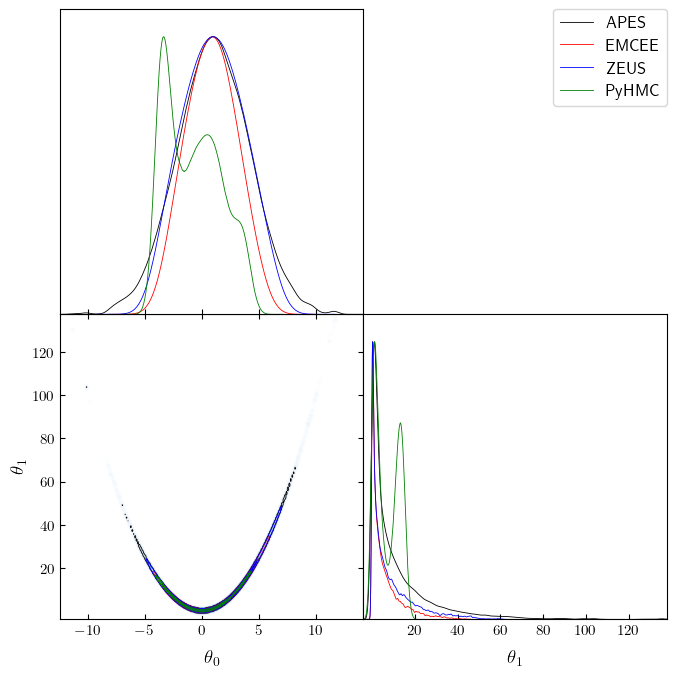
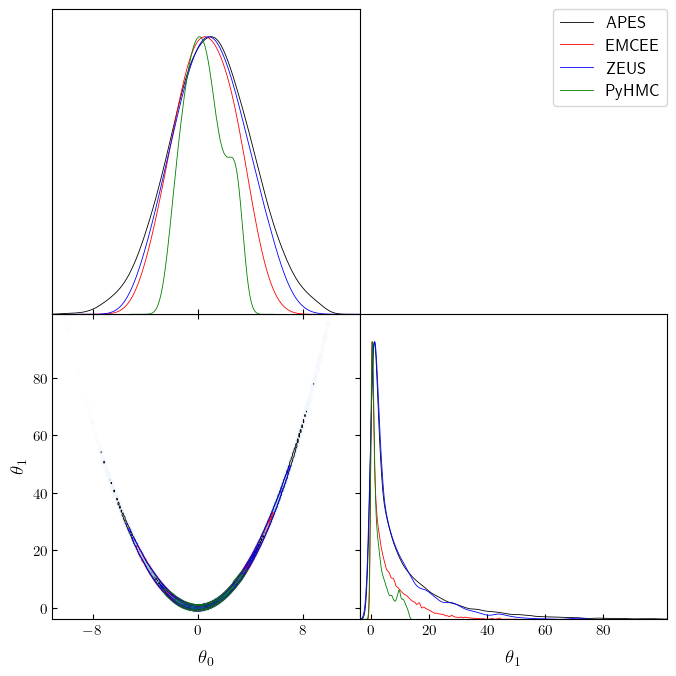
Updates on tutorials.

diff --git a/tutorials/rosenbrock_simple.md b/tutorials/rosenbrock_simple.md
@@ -1,13 +1,12 @@
----
+----
 layout: tutorial
 title: Samplers comparison
 desc: comparing the performance of four different samplers
----
-
+----
 
 # Samplers comparison
 
-**License**
+## License
 
 rosenbrock_simple
 
@@ -48,7 +47,7 @@ import zeus
 from pyhmc import hmc
 ```
 
-### Initialize NumCosmo and sampling parameters
+## Initialize NumCosmo and sampling parameters
 
 In this notebook, we will compare the performance of four different
 samplers: APES, Emcee, Zeus and PyHMC. To start, we will use the new
@@ -72,7 +71,7 @@ burin_steps = 500
 verbose = False
 ```
 
-### Probability definition
+## Probability definition
 
 In the cell below, we will define the unnormalized Rosenbrock
 distribution, which is known to be a difficult distribution to sample
@@ -111,7 +110,7 @@ ndim, nwalkers = 2, nwalkers
 p0 = np.random.randn(nwalkers, ndim)
 ```
 
-### Runnig NumComo’s APES
+## Running NumComo’s APES
 
 In the cell below, we will run NumCosmo’s APES algorithm using the
 configuration defined above.
@@ -165,11 +164,11 @@ mcat_zeus.trim(burin_steps)
 ### Running pyhmc: Hamiltonian Monte Carlo
 
 In the cell below, we will run the pyhmc algorithm with the same initial
-point `p0` generated previously, however since pyhmc is not an ensamble
+point `p0` generated previously, however since pyhmc is not an ensemble
 sampler we use only the first point. We will generate a chain of samples
 using pyhmc and store the resulting chain in a `Catalog` object.
 Moreover, here we need to remove a longer burn-in period of 1000
-samples, since pyhmc is not an ensamble sampler.
+samples, since pyhmc is not an ensemble sampler.
 
 ``` python
 chain_pyhmc, log_prob_pyhmc = hmc(
@@ -218,29 +217,29 @@ mcat_pyhmc.print_status()
 ```
 
     #----------------------------------------------------------------------------------
-    # NcmMSetCatalog: Current mean:   2.0344       1.0053       11.327     
-    # NcmMSetCatalog: Current msd:    0.0083706    0.011912     0.076219   
-    # NcmMSetCatalog: Current sd:     2.0651       3.2121       16.204     
-    # NcmMSetCatalog: Current var:    4.2647       10.318       262.57     
-    # NcmMSetCatalog: Current tau:    7.3933       6.189        9.956      
+    # NcmMSetCatalog: Current mean:   2.0118       1.0021       11.103     
+    # NcmMSetCatalog: Current msd:    0.0079207    0.012742     0.074897   
+    # NcmMSetCatalog: Current sd:     1.9888       3.1781       15.276     
+    # NcmMSetCatalog: Current var:    3.9551       10.1         233.36     
+    # NcmMSetCatalog: Current tau:    7.138        7.234        10.817     
     #----------------------------------------------------------------------------------
-    # NcmMSetCatalog: Current mean:   1.5146       0.8295       5.8938     
-    # NcmMSetCatalog: Current msd:    0.018357     0.095591     0.384      
-    # NcmMSetCatalog: Current sd:     1.5435       2.2827       7.4156     
-    # NcmMSetCatalog: Current var:    2.3825       5.2108       54.991     
-    # NcmMSetCatalog: Current tau:    63.645       789.13       1206.7     
+    # NcmMSetCatalog: Current mean:   1.5951       0.60027      6.0177     
+    # NcmMSetCatalog: Current msd:    0.021953     0.09409      0.3077     
+    # NcmMSetCatalog: Current sd:     1.6006       2.3792       7.3684     
+    # NcmMSetCatalog: Current var:    2.5621       5.6608       54.294     
+    # NcmMSetCatalog: Current tau:    84.648       703.76       784.71     
     #----------------------------------------------------------------------------------
-    # NcmMSetCatalog: Current mean:   1.7718       1.0068       8.7195     
-    # NcmMSetCatalog: Current msd:    0.031065     0.050285     0.31753    
-    # NcmMSetCatalog: Current sd:     1.6732       2.7759       10.643     
-    # NcmMSetCatalog: Current var:    2.7997       7.7057       113.28     
-    # NcmMSetCatalog: Current tau:    155.11       147.67       400.53     
+    # NcmMSetCatalog: Current mean:   1.7673       0.97194      8.5758     
+    # NcmMSetCatalog: Current msd:    0.028349     0.046361     0.30815    
+    # NcmMSetCatalog: Current sd:     1.7064       2.7625       11.019     
+    # NcmMSetCatalog: Current var:    2.912        7.6313       121.41     
+    # NcmMSetCatalog: Current tau:    124.2        126.74       351.94     
     #----------------------------------------------------------------------------------
-    # NcmMSetCatalog: Current mean:   1.7415      -0.84735      6.9407     
-    # NcmMSetCatalog: Current msd:    0.027216     0.44089      1.409      
-    # NcmMSetCatalog: Current sd:     2.95         2.4957       5.7804     
-    # NcmMSetCatalog: Current var:    8.7024       6.2287       33.413     
-    # NcmMSetCatalog: Current tau:    25.534       9362.1       17826      
+    # NcmMSetCatalog: Current mean:   1.7126       0.53742      2.8218     
+    # NcmMSetCatalog: Current msd:    0.028136     0.13137      0.45803    
+    # NcmMSetCatalog: Current sd:     2.0903       1.5917       3.3861     
+    # NcmMSetCatalog: Current var:    4.3695       2.5336       11.465     
+    # NcmMSetCatalog: Current tau:    54.353       2043.4       5489.3     
 
 ### Comparing the mean estimates
 
@@ -256,10 +255,10 @@ print(np.abs(mcat_zeus.get_mean() / mean - 1.0))
 print(np.abs(mcat_pyhmc.get_mean() / mean - 1.0))
 ```
 
-    [0.00534514 0.02974697]
-    [0.17050423 0.4642045 ]
-    [0.00682038 0.20732131]
-    [1.84735064 0.36902792]
+    [0.0020966  0.00939155]
+    [0.39972599 0.45293618]
+    [0.02806083 0.2203813 ]
+    [0.46258321 0.74347242]
 
 ### Comparing the standard deviation estimates
 
@@ -274,10 +273,10 @@ print(np.abs(np.sqrt(np.diagonal(mcat_zeus.get_covar())) / sigma - 1.0))
 print(np.abs(np.sqrt(np.diagonal(mcat_pyhmc.get_covar())) / sigma - 1.0))
 ```
 
-    [0.01576792 0.04574835]
-    [0.27814386 0.52142614]
-    [0.12217818 0.31313443]
-    [0.21077586 0.62695513]
+    [0.00499343 0.01413589]
+    [0.24761925 0.52446852]
+    [0.12642799 0.28888953]
+    [0.49665275 0.78147664]
 
 ### Using `getdist` on the chains
 
@@ -315,10 +314,9 @@ g.settings.linewidth = 0.01
 g.triangle_plot([mcs_apes, mcs_emcee, mcs_zeus, mcs_pyhmc], shaded=True)
 ```
 
-    auto bandwidth for theta_0 very small or failed (h=0.000264873376699719,N_eff=32286.89337404226). Using fallback (h=0.023574362536605796)
-    auto bandwidth for theta_1 very small or failed (h=0.0004570819762599289,N_eff=111770.21263323116). Using fallback (h=0.002694796107662412)
-    auto bandwidth for theta_1 very small or failed (h=0.00027723025285961926,N_eff=31660.725563384418). Using fallback (h=0.02142883143142616)
-    fine_bins_2D not large enough for optimal density: theta_0, theta_1
+    auto bandwidth for theta_0 very small or failed (h=0.0005832638183669094,N_eff=38411.13458893739). Using fallback (h=0.022408377246589863)
+    auto bandwidth for theta_1 very small or failed (h=0.0006114885736063465,N_eff=112997.872249284). Using fallback (h=0.003704573608527487)
+    auto bandwidth for theta_1 very small or failed (h=0.0014299159644314198,N_eff=14883.212703556037). Using fallback (h=0.007191755509401264)
     fine_bins_2D not large enough for optimal density: theta_0, theta_1
     fine_bins_2D not large enough for optimal density: theta_0, theta_1
     fine_bins_2D not large enough for optimal density: theta_0, theta_1
